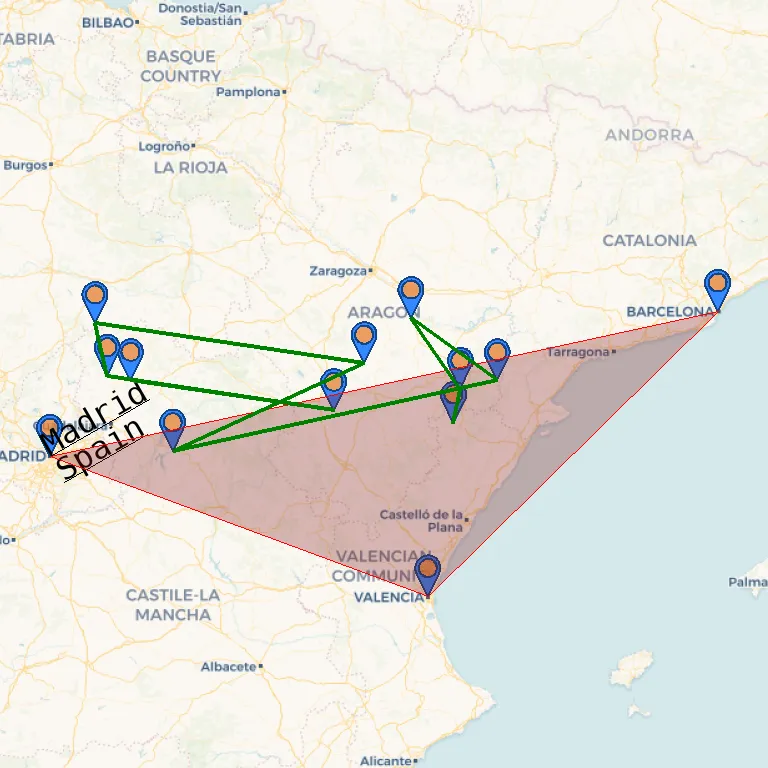
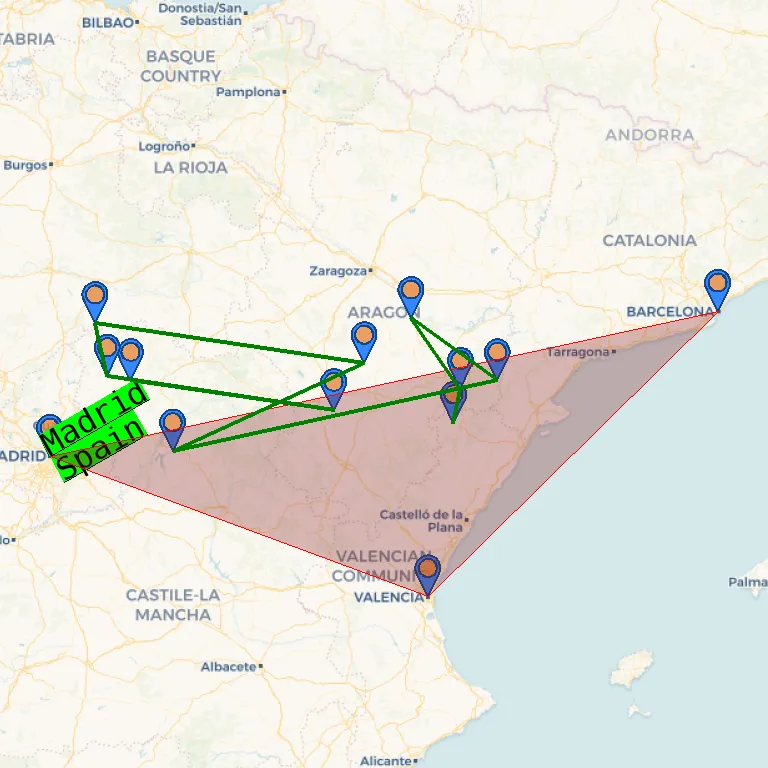
Added support for text background color in the GD canvas drawText method.

Changed region(s): [[0.0312, 0.5, 0.1875, 0.625]]

diff --git a/src/imagefactory.gd.php b/src/imagefactory.gd.php
@@ -685,8 +685,8 @@ class GDImageCanvas implements Canvas
 
 	public function drawText($point, $text)
 	{
-		// TODO: GD doesn't support newline characters in the text, nor alignment
-		// so a custom layouting is needed
+		// GD doesn't support newline characters in the text, alignment, nor text decoration such as underline
+		// out of the box so this method implements these.
 		
 		$drawing = $this->drawing;
 		if($drawing != null)
@@ -735,12 +735,18 @@ class GDImageCanvas implements Canvas
 			elseif($textdecoration == "overline") $decomulh = 1.0;
 			elseif($textdecoration == "linethrough") $decomulh = 0.5;
 			
+			$textbg = null;
+			if(isset($style['textundercolor']) && is_string($style['textundercolor']))
+			{
+				$textbg = $this->getGDColor($style['textundercolor']);
+			}
+			
 			if($fontfile != '')
 			{
-				$bbox = \imagettfbbox($fontsize, 0, $fontfile, "d", ['linespacing' => 0]);
-				$decoh = abs($bbox[7] - $bbox[1]);
-				
+
 				$lines = explode("\n", $text);
+				
+				$textredering = [];
 				foreach($lines as $i => $line)
 				{
 					// Use angle=0 to fetch the axis aligned text, so we know the width and height
@@ -760,20 +766,54 @@ class GDImageCanvas implements Canvas
 					$aligndx = cos(deg2rad($angle)) * $alignmulw * $textw;
 					$aligndy = -sin(deg2rad($angle)) * $alignmulw * $textw;
 					
-					$x = intval($p->x + $nldx + $aligndx);
-					$y = intval($p->y + $nldy + $aligndy);
-					\imagettftext($drawing, $fontsize, $angle, $x, $y, $c, $fontfile, $line, ['linespacing' => 0]);	
+					$x = $p->x + $nldx + $aligndx;
+					$y = $p->y + $nldy + $aligndy;
+					
+					// Render background of text if color specified
+					if($textbg != null)
+					{
+						$horizdx = cos(deg2rad($angle))*$textw;
+						$horizdy = -sin(deg2rad($angle))*$textw;
+						$vertdx = cos(deg2rad($angle + 90))*$texth;
+						$vertdy = -sin(deg2rad($angle + 90))*$texth;
+						$bgpoints = [
+							$x, $y,
+							$x + $horizdx, $y + $horizdy,
+							$x + $horizdx + $vertdx, $y + $horizdy + $vertdy,
+							$x + $vertdx, $y + $vertdy,
+						];
+						
+						\imagefilledpolygon($drawing, $bgpoints, $textbg);
+					}
+					
+					// This is the data needed for rendering each line of text
+					$textredering[] = ['x' => $x, 'y' => $y, 'line' => $line, 'textw' => $textw];
+				}
+				
+				// Render the lines of text after rendering the background of each line.
+				
+				// Use the letter 'd' to decide height of where to place text decoration lines
+				$bbox = \imagettfbbox($fontsize, 0, $fontfile, "d", ['linespacing' => 0]);
+				$decoh = abs($bbox[7] - $bbox[1]);
+				
+				foreach($textredering as $tr)
+				{
+					$line = $tr['line'];
+					$x = $tr['x'];
+					$y = $tr['y'];
+					\imagettftext($drawing, $fontsize, $angle, intval($x), intval($y), $c, $fontfile, $line, ['linespacing' => 0]);	
 	
 					if($textdecoration != "")
 					{
+						$textw = $tr['textw'];
 						// decoration vector
 						$decodx = cos(deg2rad($angle + 90)) * $decomulh * $decoh;
 						$decody = -sin(deg2rad($angle + 90)) * $decomulh * $decoh;
 						
-						$x1 = intval($p->x + $nldx + $aligndx + $decodx);
-						$y1 = intval($p->y + $nldy + $aligndy + $decody);
-						$x2 = intval($p->x + $nldx + $aligndx + $decodx + cos(deg2rad($angle))*$textw);
-						$y2 = intval($p->y + $nldy + $aligndy + $decody - sin(deg2rad($angle))*$textw);
+						$x1 = intval($x + $decodx);
+						$y1 = intval($y + $decody);
+						$x2 = intval($x + $decodx + cos(deg2rad($angle))*$textw);
+						$y2 = intval($y + $decody - sin(deg2rad($angle))*$textw);
 						\imageline($drawing, $x1, $y1, $x2, $y2, $c);
 					}
 				}

diff --git a/example/makemap.php b/example/makemap.php
@@ -167,7 +167,7 @@ $renderer->addLayer(new TextLayer($markersLatLons[1], "Madrid\nSpain", [
 		'textkerning' => 0,
 		'textlinespacing' => 0,
 		'textwordspacing' => 0,
-		'textundercolor' => 'transparent',
+		'textundercolor' => 'lime',
 	]
 ]));
 